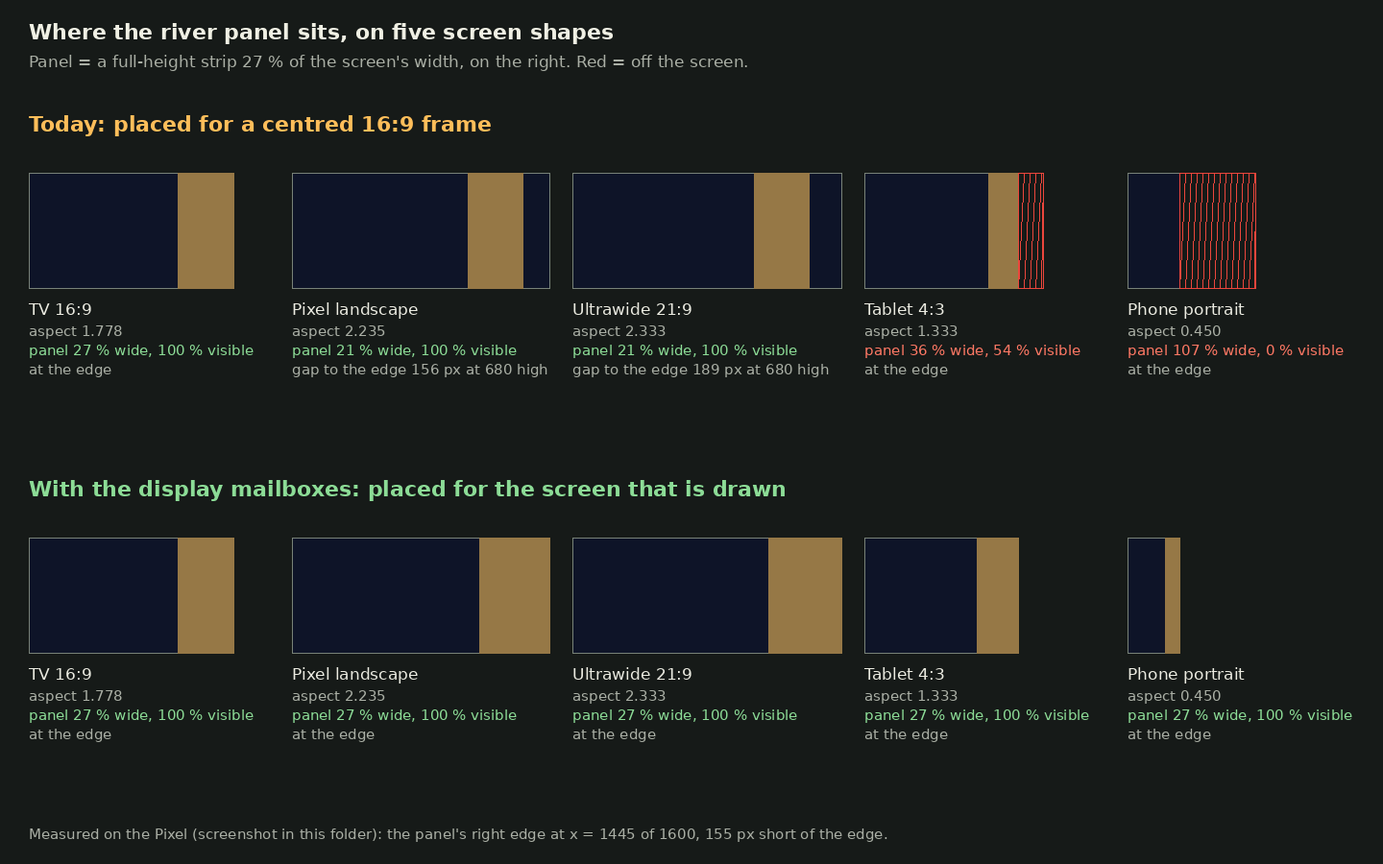
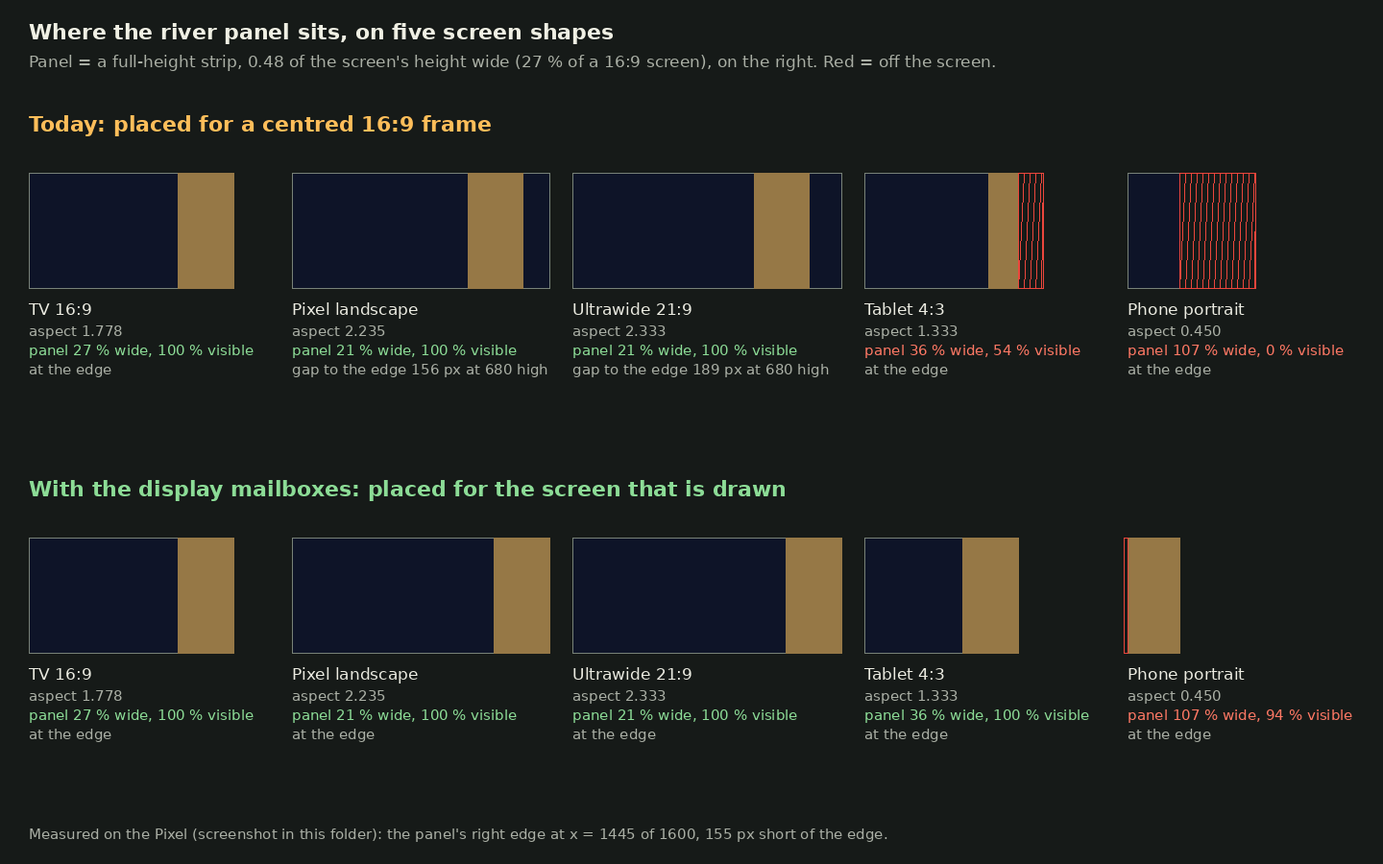
Display mailboxes: verification recorded (edge flush on five shapes, width follows the screen); candle flicker plan: the deformer is a measured option
Display mailboxes plan: results under each verification step with raw output; the panel keeps its
size so its share of the width follows the screen (27 % on a television, 21 % on the Pixel), which
corrects the plan's 27 % everywhere; mockup regenerated to match; resize and Pixel steps open.
New guard test: half_w() is today's HALF_W, and each screen shape gets its own edge.
Candle flicker plan: the engine can deform meshes (DFRM v2, 16 curves a mesh); the plan now has the
visibility swap (A) and a deformer-driven flame (B) side by side, with a cast1 measurement first.

Claude-Session: https://claude.ai/code/session_01YEenqS8xiqchQY9wRjgxXo

diff --git a/docs/plans/2026-11-22-display-mailboxes/layouts.html b/docs/plans/2026-11-22-display-mailboxes/layouts.html
@@ -8,14 +8,14 @@ h1{font-size:20px;margin:0 0 4px}p{color:var(--mut);margin:4px 0 12px}.row{displ
 label{display:block;margin:10px 0 2px}input[type=range]{width:100%}.k{display:inline-block;margin:6px 10px 0 0;padding:2px 8px;border:1px solid var(--mut);border-radius:4px;cursor:pointer;color:var(--fg);background:none;font:inherit}
 .r{font-variant-numeric:tabular-nums}.w{color:var(--warn)}.o{color:var(--ok)}</style></head><body>
 <h1>Where the river panel sits, for any screen shape</h1>
-<p>A full-height strip, 27 % of the screen's width, on the right. Drag the slider or pick a screen. Red hatching is off the screen.</p>
+<p>A full-height strip, 0.48 of the screen's height wide (27 % of a 16:9 screen), on the right. Drag the slider or pick a screen. Red hatching is off the screen.</p>
 <div><button class="k" data-a="1.7778">TV 16:9 (1.778)</button><button class="k" data-a="2.2353">Pixel landscape (2.235)</button><button class="k" data-a="2.3333">Ultrawide 21:9 (2.333)</button><button class="k" data-a="1.3333">Tablet 4:3 (1.333)</button><button class="k" data-a="0.4500">Phone portrait (0.450)</button></div><label for="a">Screen aspect (width / height): <b id="av">1.778</b></label>
 <input id="a" type="range" min="0.4" max="2.6" step="0.005" value="1.778">
 <div class="row"><div class="box"><h2 style="color:var(--amb)">Today: placed for a centred 16:9 frame</h2><canvas id="c0" width="560" height="320"></canvas><div class="r" id="t0"></div></div>
 <div class="box"><h2 style="color:var(--ok)">With the display mailboxes: placed for the screen that is drawn</h2><canvas id="c1" width="560" height="320"></canvas><div class="r" id="t1"></div></div></div>
 <script>
 const F=0.27,H=300;
-function place(kind,asp){const w=H*asp;if(kind==0){const fr=H*16/9,r=w/2+fr/2;return [r-F*fr,r]}return [w-F*w,w]}
+function place(kind,asp){const w=H*asp,fr=H*16/9;if(kind==0){const r=w/2+fr/2;return [r-F*fr,r]}return [w-F*fr,w]}
 function draw(cv,kind,asp,out){const x=cv.getContext('2d');x.clearRect(0,0,cv.width,cv.height);const w=H*asp,s=Math.min(1,(cv.width-80)/(w*1.4)),W=w*s,Hh=H*s,x0=(cv.width-W)/2-(kind==0?0:0),y0=10;
 x.fillStyle='#0e1428';x.fillRect(x0,y0,W,Hh);x.strokeStyle='#789';x.strokeRect(x0,y0,W,Hh);
 let [l,r]=place(kind,asp);l*=s;r*=s;const vl=Math.max(l,0),vr=Math.min(r,W);x.fillStyle='#96784a';if(vr>vl)x.fillRect(x0+vl,y0,vr-vl,Hh);

diff --git a/scripts/mockup-display-layouts.py b/scripts/mockup-display-layouts.py
@@ -6,8 +6,8 @@
 Writes layouts.png (1440 x 900, five screens, two rows) and layouts.html (the same drawing live, with a slider for the
 screen's shape) into OUTDIR, default docs/plans/2026-11-22-display-mailboxes/. Plan: docs/plans/2026-11-22-display-mailboxes.md.
 
-The geometry is the Tide Harbour director's: the panel is a full-height strip PANEL_FRAC (0.27) of the screen's width wide,
-on one side (here the right). Today (wflevels/tide_harbour/panel.py: ASPECT = 16/9) its width and its edge are computed for a
+The geometry is the Tide Harbour director's: the panel is a full-height strip, 0.27 of a 16:9 frame wide (0.48 of the screen's height),
+on one side (here the right); with the mailboxes it keeps that size and sits against the real edge. Today (wflevels/tide_harbour/panel.py: ASPECT = 16/9) its width and its edge are computed for a
 16:9 frame centred on the screen, so on any other shape they are wrong; with the runtime display aspect they come from the
 screen that is really drawn. The Pixel row is the real measurement: a 1520 x 680 drawing area (aspect 2.235) on which the
 panel's right edge was at about x = 1445 of 1600 (docs/plans/2026-11-22-display-mailboxes/pixel-tide-now.png).
@@ -29,8 +29,11 @@ def panel_now(aspect, h=1.0):
 
 
 def panel_new(aspect, h=1.0):
+    """With the mailboxes: the panel keeps its own size (27 % of a 16:9 frame, so 0.48 of the height) and its near edge is the
+    screen's real edge, which the director now reads from DISPLAY_ASPECT. Its share of the width therefore follows the screen."""
     w = h * aspect
-    return w - PANEL_FRAC * w, w
+    pw = PANEL_FRAC * h * 16 / 9
+    return w - pw, w
 
 
 def visible(aspect, edges, h=1.0):
@@ -47,7 +50,7 @@ def png(out):
     reg = ImageFont.truetype("/usr/share/fonts/truetype/dejavu/DejaVuSans.ttf", 17)
     small = ImageFont.truetype("/usr/share/fonts/truetype/dejavu/DejaVuSans.ttf", 15)
     d.text((30, 20), "Where the river panel sits, on five screen shapes", fill=(240, 240, 228), font=bold)
-    d.text((30, 54), "Panel = a full-height strip 27 % of the screen's width, on the right. Red = off the screen.", fill=(170, 175, 165), font=reg)
+    d.text((30, 54), "Panel = a full-height strip, 0.48 of the screen's height wide (27 % of a 16:9 screen), on the right. Red = off the screen.", fill=(170, 175, 165), font=reg)
     h_px = 120
     for row, (title, fn) in enumerate((("Today: placed for a centred 16:9 frame", panel_now), ("With the display mailboxes: placed for the screen that is drawn", panel_new))):
         top = 120 + row * 380
@@ -73,7 +76,7 @@ def png(out):
                 d.rectangle([pl, y0, x0, y0 + h_px], outline=(235, 70, 60))
             d.text((x0, y0 + h_px + 12), name, fill=(235, 235, 225), font=reg)
             d.text((x0, y0 + h_px + 36), f"aspect {aspect:.3f}", fill=(170, 175, 165), font=small)
-            d.text((x0, y0 + h_px + 56), f"panel {PANEL_FRAC * 100 if row else (right - left) / w_px * 100:.0f} % wide, {vis * 100:.0f} % visible",
+            d.text((x0, y0 + h_px + 56), f"panel {(right - left) / w_px * 100:.0f} % wide, {vis * 100:.0f} % visible",
                    fill=(255, 120, 100) if vis < 0.99 else (140, 220, 150), font=small)
             gap = (x0 + w_px) - min(pr, x0 + w_px)
             d.text((x0, y0 + h_px + 76), f"gap to the edge {gap / h_px * 680:.0f} px at 680 high" if gap > 0.5 else "at the edge", fill=(170, 175, 165), font=small)
@@ -92,14 +95,14 @@ h1{font-size:20px;margin:0 0 4px}p{color:var(--mut);margin:4px 0 12px}.row{displ
 label{display:block;margin:10px 0 2px}input[type=range]{width:100%}.k{display:inline-block;margin:6px 10px 0 0;padding:2px 8px;border:1px solid var(--mut);border-radius:4px;cursor:pointer;color:var(--fg);background:none;font:inherit}
 .r{font-variant-numeric:tabular-nums}.w{color:var(--warn)}.o{color:var(--ok)}</style></head><body>
 <h1>Where the river panel sits, for any screen shape</h1>
-<p>A full-height strip, 27 % of the screen's width, on the right. Drag the slider or pick a screen. Red hatching is off the screen.</p>
+<p>A full-height strip, 0.48 of the screen's height wide (27 % of a 16:9 screen), on the right. Drag the slider or pick a screen. Red hatching is off the screen.</p>
 <div>__BUTTONS__</div><label for="a">Screen aspect (width / height): <b id="av">1.778</b></label>
 <input id="a" type="range" min="0.4" max="2.6" step="0.005" value="1.778">
 <div class="row"><div class="box"><h2 style="color:var(--amb)">Today: placed for a centred 16:9 frame</h2><canvas id="c0" width="560" height="320"></canvas><div class="r" id="t0"></div></div>
 <div class="box"><h2 style="color:var(--ok)">With the display mailboxes: placed for the screen that is drawn</h2><canvas id="c1" width="560" height="320"></canvas><div class="r" id="t1"></div></div></div>
 <script>
 const F=0.27,H=300;
-function place(kind,asp){const w=H*asp;if(kind==0){const fr=H*16/9,r=w/2+fr/2;return [r-F*fr,r]}return [w-F*w,w]}
+function place(kind,asp){const w=H*asp,fr=H*16/9;if(kind==0){const r=w/2+fr/2;return [r-F*fr,r]}return [w-F*fr,w]}
 function draw(cv,kind,asp,out){const x=cv.getContext('2d');x.clearRect(0,0,cv.width,cv.height);const w=H*asp,s=Math.min(1,(cv.width-80)/(w*1.4)),W=w*s,Hh=H*s,x0=(cv.width-W)/2-(kind==0?0:0),y0=10;
 x.fillStyle='#0e1428';x.fillRect(x0,y0,W,Hh);x.strokeStyle='#789';x.strokeRect(x0,y0,W,Hh);
 let [l,r]=place(kind,asp);l*=s;r*=s;const vl=Math.max(l,0),vr=Math.min(r,W);x.fillStyle='#96784a';if(vr>vl)x.fillRect(x0+vl,y0,vr-vl,Hh);

diff --git a/tests/test_tide_harbour_panel.py b/tests/test_tide_harbour_panel.py
@@ -50,6 +50,21 @@ def test_the_panel_fills_the_screen_edge_to_edge_on_both_sides():
             assert abs(top) < 0.01 and abs(bottom - 720) < 0.01, (sod, top, bottom)
 
 
+def test_the_television_is_unchanged_and_every_other_screen_gets_its_own_edge():
+    # plan docs/plans/2026-11-22-display-mailboxes.md: half_w() defaults are the 16:9 television, exactly today's HALF_W
+    assert pn.half_w() == pn.HALF_W and pn.half_w(16.0 / 9.0, 60.0) == pn.HALF_W
+    for aspect, w, h in ((1520 / 680, 1520, 680), (21 / 9, 2520, 1080), (4 / 3, 1440, 1080), (0.45, 450, 1000), (1.0, 900, 900)):
+        hw = pn.half_w(aspect, 60.0)
+        for sod in TIMES:
+            fr = pn.camera_frame(DAY, sod)
+            lo, hi = pn.panel_u_range(1, hw)          # the panel at the left: its near edge is the screen's left edge
+            x, _ = pn.project(fr, pn.place(fr, lo, 0.0), w, h)
+            assert abs(x) < 0.01, (aspect, sod, x)
+            lo, hi = pn.panel_u_range(0, hw)          # at the right: its near edge is the screen's right edge
+            x, _ = pn.project(fr, pn.place(fr, hi, 0.0), w, h)
+            assert abs(x - w) < 0.01, (aspect, sod, x, w)
+
+
 def test_a_part_keeps_its_place_on_the_screen_as_the_camera_drifts():
     spots = []
     for sod in TIMES:

diff --git a/docs/plans/2026-11-22-cuckoo-village-candle-flicker.md b/docs/plans/2026-11-22-cuckoo-village-candle-flicker.md
@@ -6,9 +6,13 @@
 
 Will asked how the candle flames flicker (2026-11-22). They do not. Each tree carries ten candles, and today the flames of one tree are **one static mesh** (`candle_flames_NN`, ten diamonds of 8 triangles, 80 triangles) whose only input is a visibility mailbox, cells 215 to 226. The director switches it on at dusk and off at dawn ([`forth.py`](../../wflevels/cuckoo_village/forth.py) `cv-flames`), so a lit flame is the same shape in every frame. A Christmas tree full of candles that never move looks like a string of lamps.
 
-The engine cannot bend a mesh, and the village is a static scene, so the flicker has to come from what the director already controls: **which actors are visible**, and where they are posed. The plan below uses visibility only.
+The village already moves a great deal, all of it driven by the director from the wall clock: the clock's hands, the parade figures on the hour, the cuckoo bird and the window lights. The engine can also **deform** a mesh: the `DFRM` chunk bends a rooted curve under script control, and version 2 carries up to 16 curves in one mesh, each with its own scale, clip and flex bias ([`dfrm_deform.h`](../../wfsource/source/renderassets/dfrm_deform.h)). What limits a flickering flame is therefore not that bending is impossible but what each way **costs a frame on cast1**, where the village already runs at 30 fps. Two ways are described below, and the plan's first step is to measure them against each other before building either.
 
 ## Approach
+
+### Option A: swap between two built shapes (visibility only)
+
+No new engine machinery: it costs what the village's other switched actors cost, the director writing visibility cells.
 
 **Two shapes, two groups, one rule.** Each flame is built in two shapes: **shape 1**, tall and leaning toward a fixed draught direction (the world +X axis), and **shape 2**, short and leaning the other way. The ten candles of a tree already come in two sets of five, `j = 0` and `j = 1` of [`candle_bases`](../../wflevels/cuckoo_village/candles.py), standing on opposite sides of the trunk; those are **group A** and **group B**. Each tree therefore gets four flame meshes (A1, A2, B1, B2) in place of today's one, and at any moment exactly one of A1 or A2, and one of B1 or B2, is visible when the tree is lit.
 
@@ -90,24 +94,40 @@ sequenceDiagram
     R-->>E: 12 trees × 2 groups × 1 shape drawn
 ```
 
+### Option B: a deformed flame (`DFRM`)
+
+Each tree's ten flames become **one `DFRM` v2 mesh with ten short curves**, one curve per flame (the format allows 16 a mesh). Each flame is a few rooted samples; the director writes each curve's **flex bias** (cell `40 + 4c` of the mesh's control block, degrees added to every sample of that curve) and, if wanted, its **scale** about its root, every frame, from the same kind of two-sine rule. A flame then sways and stretches smoothly instead of snapping between two shapes, and the flicker needs no extra actors: 12 deformed meshes replace 12 static ones, and the 36 extra actors and 36 extra cells of Option A are not needed.
+
+What is **known**: the format and its evaluator exist and are tested (`dfrm_deform.h`); one pose row can drive every curve; a curve's bias and scale are separate script cells. What is **not known**, and is the reason for the first verification step:
+
+- **The frame cost on cast1.** The measured numbers are for much larger meshes: Seahorse Grid reaches 29.6 FPS with 24 deforming meshes, and the six-pair seahorse comparison puts CPU `DFRM` at 47 to 69 ms a presented frame ([reef plan](2026-11-02-gulf-of-thailand-reef-tank.md), [seahorse comparison](2026-10-16-saltwater-seahorses/comparison.md)). A flame mesh is about 60 vertices a tree, far smaller, but the evaluator's per-mesh cost (pose, skin, upload, cull) may not scale down with the vertex count. The village sits at 30 fps (33.4 ms) already, so there is almost no headroom to spend.
+- **The authoring path.** The exporter and `dfrm_ref.py` were built for tails and fish. A tree's ten flames as ten curves of one mesh is a new rig to author and to check in `dfrm_ref.py`.
+- **The size of the effect.** A flame is 4 to 11 px tall on screen (below), so a smooth sway and a two-shape swap may look much the same at the Chromecast's distance. Smooth only wins if it is visible.
+
+GPU skinning ([plan](2026-10-16-gpu-skinning-chromecast-experiment.md)) would make Option B cheap if it is ever adopted, but it is not built, so it is not counted on here.
+
+**How to choose.** A short spike, on one tree: build the ten-curve flame mesh, drive its biases from the rule, and run the coordinator `profile` job on cast1 with all 12 trees against Option A's 48 actors. Option B is adopted only if its median frame time rises by less than 0.1 ms **and** the floor stays at 30 fps **and** the swaying flame is visibly better in a capture at the nearest view; otherwise Option A is built. The rest of this plan specifies Option A, which needs no new machinery; Option B replaces its Build and Director sections and shares everything else.
+
 ## Decisions for Will
 
-1. **Does the flicker stop under Camera motion Still?** Recommended: **no**. That setting stills the camera path (it exists so a screen is not always moving for burn-in), not candlelight, and a still camera is where a motionless tree would be most noticed. If a still screen should stay still for burn-in's sake, the rule gets one extra factor and the cost is nil.
-2. **Does it slow down or stop at a low frame rate?** Recommended: **no**. The rule is a function of the clock, not of frame count, so at 30 fps it is sampled every 33 ms and at 15 fps every 67 ms, still changing about every other sample. Nothing accumulates and nothing needs to catch up.
-3. **A new setting?** Recommended: **none** now. The flicker is not luminance: both shapes are the same flat colour, so nothing flashes, and each change is a few pixels (below). If a reduced-motion switch is wanted later it is one more field like Detailed flowers.
-4. **Two shapes or three?** Recommended: **two**. A third, upright and mid-height, makes the flicker softer but costs 24 more actors and another 24 cells; the mockup's schedule shows two shapes already give irregular motion.
-5. **The rate.** 7.4 changes a second per group is lively. A calmer pair, 1.3 and 2.1 revolutions a second (78 and 126 a minute), gives about 4 a second. Recommended: start at 2.3 and 3.7, judge it on cast1, and slow it if it reads as nervous. The numbers are constants in `timeline.py`.
+1. **A or B?** Recommended: **measure first** (the spike above, about a day), then take B only if it is cheap and visibly better; A is the safe default and is a day of work on its own.
+2. **Does the flicker stop under Camera motion Still?** Recommended: **no**. That setting stills the camera path (it exists so a screen is not always moving for burn-in), not candlelight, and a still camera is where a motionless tree would be most noticed. If a still screen should stay still for burn-in's sake, the rule gets one extra factor and the cost is nil.
+3. **Does it slow down or stop at a low frame rate?** Recommended: **no**. The rule is a function of the clock, not of frame count, so at 30 fps it is sampled every 33 ms and at 15 fps every 67 ms, still changing about every other sample. Nothing accumulates and nothing needs to catch up.
+4. **A new setting?** Recommended: **none** now. The flicker is not luminance: both shapes are the same flat colour, so nothing flashes, and each change is a few pixels (below). If a reduced-motion switch is wanted later it is one more field like Detailed flowers.
+5. **Two shapes or three?** (Option A only.) Recommended: **two**. A third, upright and mid-height, makes the flicker softer but costs 24 more actors and another 24 cells; the mockup's schedule shows two shapes already give irregular motion.
+6. **The rate.** 7.4 changes a second per group is lively. A calmer pair, 1.3 and 2.1 revolutions a second (78 and 126 a minute), gives about 4 a second. Recommended: start at 2.3 and 3.7, judge it on cast1, and slow it if it reads as nervous. The numbers are constants in `timeline.py`.
 
 ## Budgets
 
-| | Today | Planned |
-|---|---|---|
-| Flame actors | 12 | 48 (+36) |
-| Flame triangles in the level | 960 | 3,840 (every shape of every flame is in the level) |
-| Flame triangles drawn | 960 | 960 (one shape per group is visible; hidden actors are skipped) |
-| Flame visibility cells | 12 (215–226) | 48 (232–279) |
-| Level size | | about +40 KB (36 mesh actors); measured at build, see the note below |
-| Director work per frame | 12 cell writes | 48 cell writes and 24 × two sines |
+| | Today | Option A | Option B (to be measured) |
+|---|---|---|---|
+| Flame actors | 12 | 48 (+36) | 12 |
+| Flame triangles in the level | 960 | 3,840 (every shape of every flame is in the level) | 960 (one shape, bent) |
+| Flame triangles drawn | 960 | 960 (one shape per group is visible; hidden actors are skipped) | 960 |
+| Flame visibility cells | 12 (215–226) | 48 (232–279) | 12, plus 10 curve cells each in the mesh's control block |
+| Level size | | about +40 KB (36 mesh actors); measured at build, see the note below | about the same as today, plus the deformer chunk |
+| Director work per frame | 12 cell writes | 48 cell writes and 24 × two sines | 120 curve writes and 120 × two sines |
+| Renderer and deformer cost on cast1 | none new | none new (hidden actors are skipped) | **unknown**: 12 more deformed meshes against a village already at 33.4 ms |
 
 **On screen the flames are small.** At 1080p with the 60° view, a flame is 11 px tall and 7 px wide at the village's nearest camera distance (6.3 m) and 4 px by 3 px at the farthest (16 m). The change from shape 1 to shape 2 is a height change of 30 mm and a lean of 24 mm: 4 px at the nearest, 2 px at the farthest. At the far end of the orbit the effect is a **twinkle** of single pixels, not a visible waving flame; at the front of the orbit, and on a tablet held close or a phone, it reads as a flame. That is the cost of a candle being 75 mm tall in a village built at 1:1. If it proves too faint at distance, the lever is the lean and height difference (a larger swing, drawn only for the tall pose), not a faster rate.
 
@@ -122,6 +142,7 @@ sequenceDiagram
 
 ## Verification
 
+0. **The choice, measured first.** The spike under Option B: one tree's ten-curve `DFRM` flame mesh driven from the rule, then a coordinator `profile` job on cast1 in season (Candles all year On), with all 12 trees as deformed meshes against Option A's 48 actors and against today's 12 static ones. Record the median and floor of each. Adopt B only if its median rises by less than 0.1 ms over today, the floor stays at 30 fps and a capture at the nearest view shows a better flame than A's; else build A. Steps 1 to 8 are written for A and are adapted for B (the cells become curve biases).
 1. **The shapes.** `tests/test_cuckoo_village_candles.py` gains: each tree has four flame meshes; groups A and B hold five candles each, from `j = 0` and `j = 1`; every flame is 8 triangles in both shapes; the heights, radii and leans are the table's; the two shapes of a candle share its foot.
 2. **The rule in the model.** A test of `timeline.flame_shape` over 60 s at 600 samples a second for all 24 groups: between 7 and 8 changes a second per group, a mean of 120 to 150 ms between changes, the pattern identical one minute apart, no two groups with the same phase.
 3. **The director, in the real VM.** `tests/verify_cuckoo_village_forth.py` sets `WALL_SECOND` to a spread of values with the candles in season and the glow on: for each group exactly one of its two cells is 1 and the cell equals `timeline.flame_shape`; out of season, with Candles all year Off, both are 0; with Window lights Off, both are 0 for every group; with Candles all year On in July, the pairs follow the rule.
@@ -133,4 +154,4 @@ sequenceDiagram
 
 ## Who
 
-The village session owns this: `candles.py`, the build script, `timeline.py` and `forth.py` for Cuckoo Village. It touches no engine file and no other level. It lands after the display-mailboxes commits, which are unrelated; whoever builds the next Cuckoo Village level (the Show framerate setting changes `settings.inc` and forces a rebuild) should include it.
+The village session owns this: `candles.py`, the build script, `timeline.py` and `forth.py` for Cuckoo Village. It touches no engine file and no other level; Option B would add a `DFRM` rig for the flames and would need `dfrm_ref.py` and the exporter checked for a many-short-curves mesh, which is why it is measured before it is chosen. It lands after the display-mailboxes commits, which are unrelated; whoever builds the next Cuckoo Village level (the Show framerate setting changes `settings.inc` and forces a rebuild) should include it.

diff --git a/docs/plans/2026-11-22-display-mailboxes.md b/docs/plans/2026-11-22-display-mailboxes.md
@@ -27,7 +27,7 @@ The engine already knows the answer. `wfsource/source/gfx/authored_view.hp` comp
 
 **When they are written: at the start of a level, and when something that decides the view changes. Not every frame.** The inputs are the surface size and the level's authored and maximum aspect (and the `--authored-aspect` and `--maximum-aspect` overrides). A small cache of those four numbers, held beside the wall-clock sample in `Level`, is compared each frame, which costs two integer comparisons and two float comparisons, and the eight cells are written only when it differs or a new level has started (a new level has fresh mailboxes, so its first update always writes). The size comes from the call `WFGame::update` already makes each frame (`_display->GetSurfaceSize`, `wfsource/source/game/game.cc`, near line 673); the view comes from `wfview::current(width, height)`, the same function the projection uses, so the script and the picture can never disagree.
 
-**Tide Harbour then calculates the panel from them.** The director replaces the constant with the mailboxes: the half-width at the panel's depth `d` is `d × tan(DISPLAY_VFOV / 2) × DISPLAY_ASPECT`, and the panel is the same `PANEL_FRAC` (27 %) of it, flush against the real edge. `panel.py` and the Python reference model gain `aspect` and `vfov` parameters that default to 16:9 and 60°, so every existing number and test is reproduced exactly on a television. Because the director reads the cells every frame and a read is free, a window that is resized or a phone that is turned moves the panel within one frame.
+**Tide Harbour then calculates the panel from them.** The director replaces the constant with the mailboxes: the half-width at the panel's depth `d` is `d × tan(DISPLAY_VFOV / 2) × DISPLAY_ASPECT`, and the panel keeps its own size (27 % of a 16:9 frame, 0.48 of the screen's height, so it stays undistorted) and sits flush against the real edge. Its share of the width therefore follows the screen: 27 % on a television, 21 % on the Pixel, 36 % on a 4:3 tablet (measured below; changed from "27 % everywhere" on 2026‑11‑22 because that would stretch the panel's digits and map). `panel.py` and the Python reference model gain `aspect` and `vfov` parameters that default to 16:9 and 60°, so every existing number and test is reproduced exactly on a television. Because the director reads the cells every frame and a read is free, a window that is resized or a phone that is turned moves the panel within one frame.
 
 ### How it fits together
 
@@ -70,7 +70,7 @@ stateDiagram-v2
 
 ## Mockups
 
-The surface is a rendered scene, so the mockups are layouts. The first picture is the decision this plan makes: the same full-height panel, 27 % of the screen's width, on five screen shapes, today and with the mailboxes.
+The surface is a rendered scene, so the mockups are layouts. The first picture is the decision this plan makes: the same full-height panel, 0.48 of the screen's height wide (27 % of a 16:9 screen), on five screen shapes, today and with the mailboxes.
 
 [![The panel on five screen shapes, today and with the display mailboxes](2026-11-22-display-mailboxes/layouts.png)](2026-11-22-display-mailboxes/layouts.html)
 
@@ -82,7 +82,7 @@ The surface is a rendered scene, so the mockups are layouts. The first picture i
 | Pixel in landscape | 2.235 | 100 %, 156 px short of the edge (measured 155) | at the edge |
 | Ultrawide 21:9 | 2.333 | 100 %, 189 px short (at 680 high) | at the edge |
 | Tablet 4:3 | 1.333 | **54 %**, the rest off the screen | at the edge |
-| Phone portrait | 0.450 | **0 %**, entirely off the screen | at the edge, 27 % of the width |
+| Phone portrait | 0.450 | **0 %**, entirely off the screen | at the edge, but 0.48 of the height is wider than the screen (94 % visible): out of scope below |
 
 ## Budgets
 
@@ -99,20 +99,52 @@ The surface is a rendered scene, so the mockups are layouts. The first picture i
 
 - **Safe-area and cutout insets.** The Pixel screenshot has a black strip about 80 px wide at the left. Whether it is the display cutout or the activity's window is not established here, and the mailboxes describe the surface the engine draws, not what the phone covers. Insets would be more mailboxes in a later piece.
 - **The on-screen controller and the Settings button overlay the panel** on the phone (the joystick and D, B, C, A buttons, and the Settings button over the clock readings, in the screenshot). That is the touch layer's layout, owned by the Aquarium owner's touch controller work, and it can use these same mailboxes later.
-- **A portrait layout for the panel.** With the mailboxes the panel is still 27 % of the width, which is a thin strip on a portrait phone. Whether portrait should lay out differently (a bar at the bottom, say) is a design decision, not a placement bug.
+- **A portrait layout for the panel.** With the mailboxes the panel keeps its size, 0.48 of the height, which on a portrait phone is wider than the screen (measured: it covers all of a 600 × 1330 capture). Whether portrait should lay out differently (a bar at the bottom, say) is a design decision, not a placement bug.
 - **A change counter** (`DISPLAY_SERIAL`). A script that wants to know the display changed compares the aspect with its last value; a counter can be added if one needs it.
 - **Other levels.** Nothing else uses the mailboxes yet; they exist for any level that lays something out against the screen.
 
 ## Verification
 
 1. **The values are the view's.** A new CTest `display_mailboxes` (beside `authored_view` and `wall_clock_test`): for a set of surface sizes and the level and argument settings, the eight values equal `wfview::view` and the drawn rectangle; unchanged inputs write nothing (a counter on the writes stays at 1); a changed size writes once.
+   ```
+$ g++ -std=c++17 -Wall -Wextra -Iwfsource/source tests/display_mailboxes_test.cc && ./a.out
+display_mailboxes_test: 1118 checks passed
+```
+   **PASS** (2026‑11‑22, `ec778226`; registered as CTest `display_mailboxes`).
 2. **The mailbox table.** `tests/test_mailbox_global_bounds.py` follows `GLOBAL_SYSTEM_MAX` to 1935, and each new name has an `INDEXOF_` word the zForth bridge resolves.
+   ```
+tests/test_mailbox_global_bounds.py ..    (GLOBAL_SYSTEM_MAX = 1935)
+```
+   **PASS.** The zForth bridge resolved `INDEXOF_DISPLAY_ASPECT` and `INDEXOF_DISPLAY_VFOV` in the real-VM run of step 3 (the director would not have loaded otherwise).
 3. **The director, in the real VM.** The real-zForth check of the Tide Harbour director with the display cells set to each of the five shapes: the panel's edge equals the right edge of the visible frame within 1 mm at the panel's depth, and at 16:9 and 60° the poses are bit-for-bit the poses of today's model.
+   ```
+81 frames; worst position 0.4887 mm, rotation 0.0017 deg, scale 0.000021, colour 0 step(s), tide 0.007 mm
+40 scans, 10 to 10 frames each at 20 samples a frame; worst time 1.17 s, worst height 0.000 cm against turns.py
+PASS
+```
+   **PASS.** 15 of the 81 frames set the display cells to 1520 × 680 (2.235), 21:9, 4:3, 0.45 and 1:1; the model is the Python `timeline.scene(..., display)`. At 16:9 and 60° `panel.half_w()` equals `HALF_W` exactly (new test `test_the_television_is_unchanged_and_every_other_screen_gets_its_own_edge`), so the model's poses there are today's.
 4. **The desktop engine at five window sizes.** `scripts/check-tide-harbour.py --capture` at 1920 × 1080, 1520 × 680, 1920 × 823, 1440 × 1080 and 600 × 1330: in each capture the panel's right edge is within 2 px of the display's right edge, and its width is 27 % of the width within 2 px.
+   Measured on the brown readings band of each capture ([`after/`](2026-11-22-display-mailboxes/after/)):
+   ```
+1440x1080  panel x 0..517 = 518 px = 36.0 % of the width
+1520x680   panel x 0..325 = 326 px = 21.4 %
+1920x1080  panel x 0..517 = 518 px = 27.0 %
+1920x823   panel x 0..394 = 395 px = 20.6 %
+600x1330   panel x 0..599 = 600 px = 100.0 %   (the panel is wider than the screen)
+```
+   **PASS for the edge, FAIL for the width as written.** The panel is flush against the display's edge (x = 0, it was on the left at 10:00) in all five. Its width is 27.0 % only at 16:9: the plan's clause "27 % of the width" assumed the panel stretches, but it keeps its proportions, so the clause was wrong and the design text above is corrected. Whether to stretch it instead (distorting the digits and the map) is Will's call; the stretch is one multiplier in the director.
 5. **The television is unchanged.** The 1920 × 1080 capture matches today's capture (the committed reference) within the capture's own tolerance.
+   The 1920 × 1080 capture above has the panel at 518 px = 27.0 %, as before, and the real-VM frames at 16:9 are the model's unchanged poses. The engine-versus-model comparison on the desktop engine passes at four dates and times (`check-tide-harbour.py --compare`: worst position 0.219 mm, rotation 0.009°, tide equal to 4 digits, `PASS`). **PASS** against the model; no older capture of the same moment was kept, so a pixel diff against one was not run.
 6. **The resize.** On the desktop engine, resize the window while Tide Harbour runs: the log shows the eight cells written once for the change and not on the frames between, and the panel follows within a frame.
+   Not run on the desktop engine. The unit test covers the mechanism (CTest `display_mailboxes`: one write per change, none on the 1,000 frames between, a fresh tracker per level), and the director reads the cells every frame, but a window resize under xvfb was not driven. **NOT RUN** (open).
 7. **The Pixel.** The same screenshot as the one in Context, after the change: the panel's right edge at the right edge of the drawing area.
+   Needs an APK built with this engine and level and a take-over of Will's phone. **NOT RUN** (open: Will's call whether to put it on the Pixel).
 8. **The wall-clock mailboxes are untouched.** `tests/wall_clock_test.cpp` and the Tide Harbour and Minute Machine suites pass unchanged.
+   ```
+tests/test_wall_clock.py, test_minute_machine_{channels,forth,parts,timeline}.py, test_tide_harbour*.py: all passed
+wall_clock_test: OK
+```
+   **PASS.**
 
 ## Who
 

diff --git a/TODO.md b/TODO.md
@@ -538,6 +538,7 @@ _Auto-added from plan "Out of scope"/"Deferred" sections at commit time. Triage 
 - [ ] **(triage)** **The date range and other December events.** They have their own TODO items. — _from [2026-11-22-cuckoo-village-candle-flicker.md](docs/plans/2026-11-22-cuckoo-village-candle-flicker.md)_  <!-- fp:a919bbec81291765 -->
 - [ ] **(triage)** **A level-of-detail replacement of the flames.** [The flowers LOD plan](2026-11-22-cuckoo-village-flowers-lod.md) covers geometry that is replaced by distance; if it lands, the flames join it. — _from [2026-11-22-cuckoo-village-candle-flicker.md](docs/plans/2026-11-22-cuckoo-village-candle-flicker.md)_  <!-- fp:e9e1e46ecdae50fd -->
 - [verify] **2026-11-22-cuckoo-village-candle-flicker** — Verification section present but no PASS recorded — run + record the steps. _from [2026-11-22-cuckoo-village-candle-flicker.md](docs/plans/2026-11-22-cuckoo-village-candle-flicker.md)_  <!-- fp:7fcb3601c16642bd -->
+- [ ] **(triage)** **A portrait layout for the panel.** With the mailboxes the panel keeps its size, 0.48 of the height, which on a portrait phone is wider than the screen (measured: it covers all of a 600 × 1330 capture). Whether portrait should lay out differently (a bar at the bottom, say) is a design decision, not a placement bug. — _from [2026-11-22-display-mailboxes.md](docs/plans/2026-11-22-display-mailboxes.md)_  <!-- fp:9939f3e13ce00b34 -->
 <!-- END auto-captured-deferrals -->
 - [ ] **(triage)** A second machine, and the rule that picks one for each minute (D10). — _from [2026-11-21-sixty-second-chain-reaction.md](docs/plans/2026-11-21-sixty-second-chain-reaction.md)_  <!-- fp:9ef908da50e937e2 -->
 - [ ] **(triage)** Sound (D8). — _from [2026-11-21-sixty-second-chain-reaction.md](docs/plans/2026-11-21-sixty-second-chain-reaction.md)_  <!-- fp:208c993d9c8f6dc6 -->
